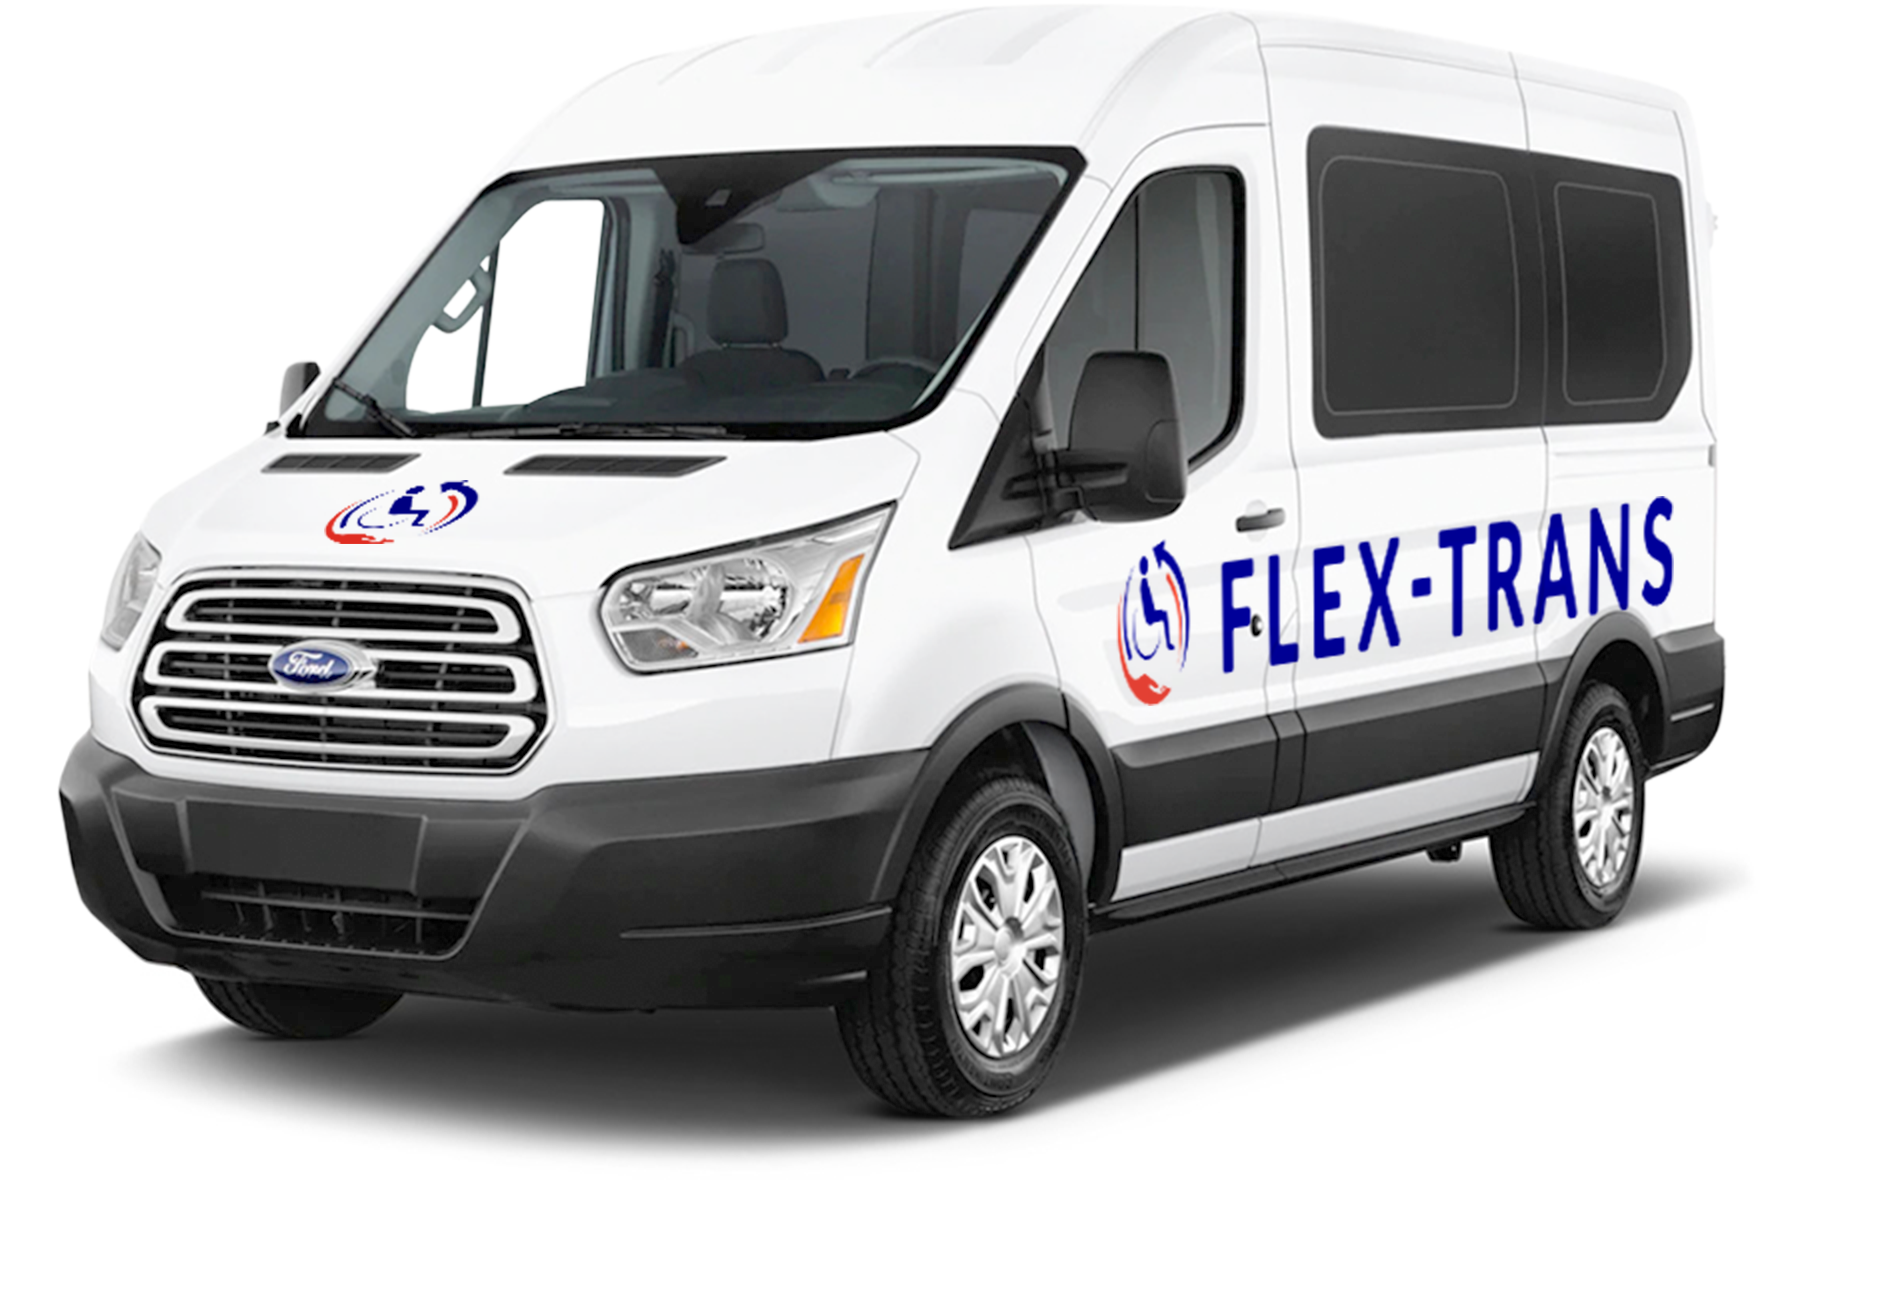
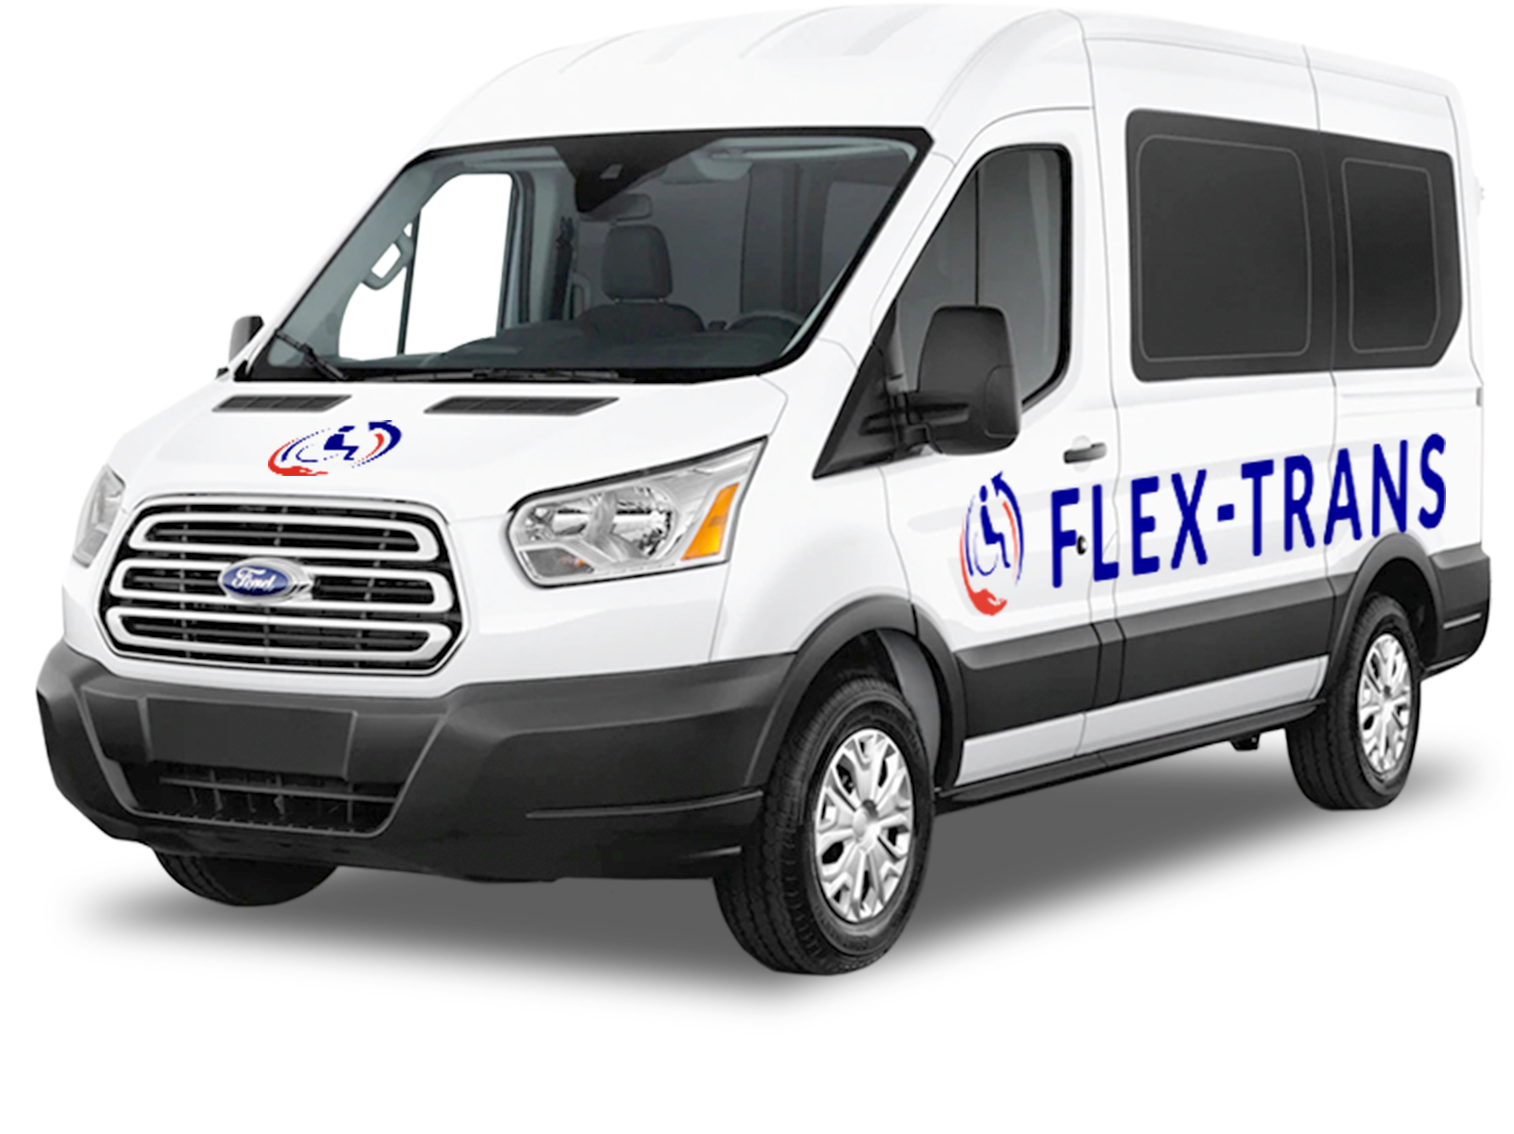
Change car picture and bg picture.

diff --git a/src/components/ReservationForm/StepOne.js b/src/components/ReservationForm/StepOne.js
@@ -3,7 +3,7 @@ import PlacesAutocomplete, { geocodeByAddress, getLatLng } from "react-places-au
 
 import { reservationFormContext } from '../../contexts/reservationFormContext';
 
-import fordtransit from '../../images/car-left.png';
+import fordtransit from '../../images/car-left-shadow.png';
 
 function StepOne(props) {
     const { addressPick, setAddressPick } = React.useContext(reservationFormContext);
